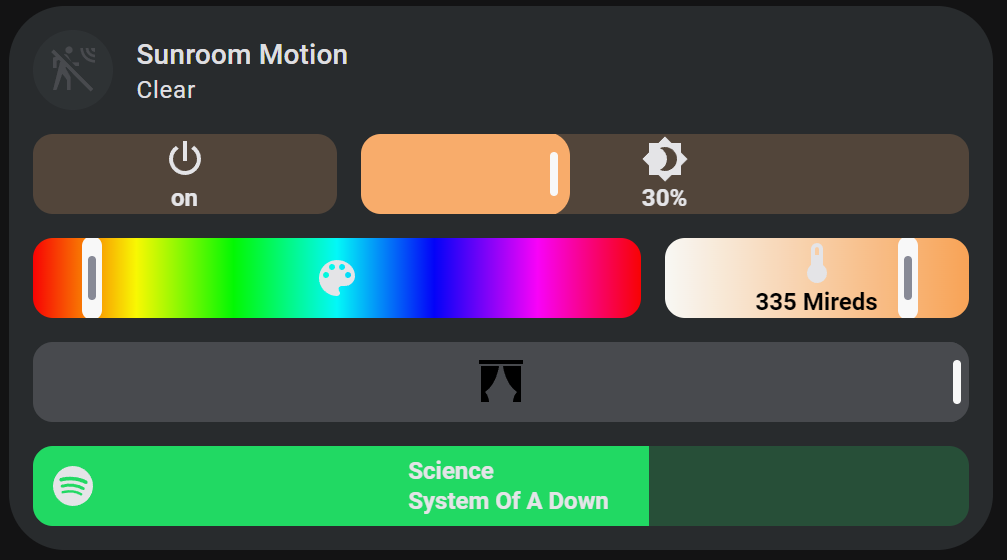
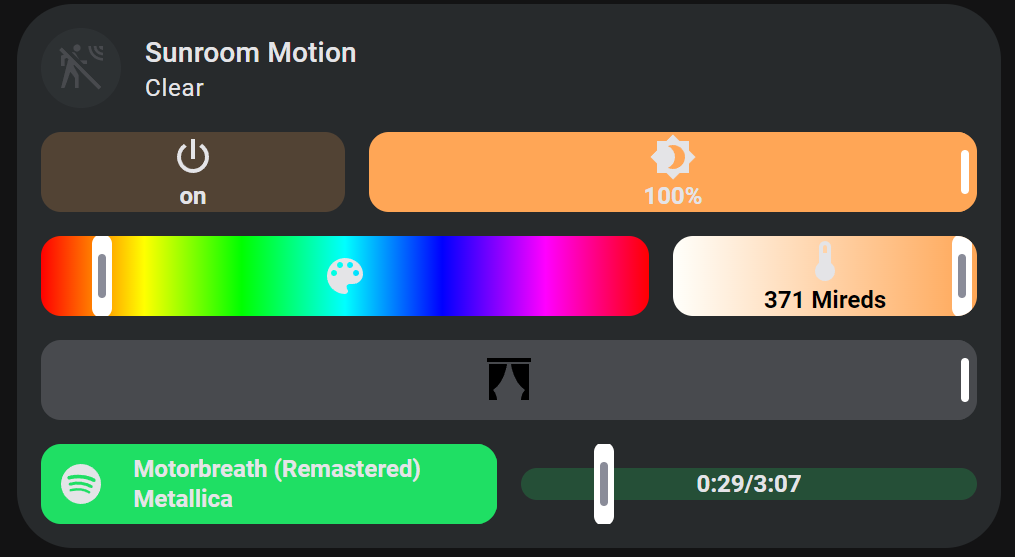
update README examples, make it so that spinbox checks hold_action.action for repeat rather than increment or decrement actions

diff --git a/dist/service-call-tile-feature.min.js b/dist/service-call-tile-feature.min.js
@@ -356,7 +356,7 @@
 					opacity: 1;
 					transition: opacity 540ms ease-in-out 0s;
 				}
-			`]}};t.ServiceCallSlider=c,i([(0,o.state)()],c.prototype,"showTooltip",void 0),i([(0,o.state)()],c.prototype,"sliderOn",void 0),i([(0,o.state)()],c.prototype,"currentValue",void 0),t.ServiceCallSlider=c=i([(0,o.customElement)("service-call-slider")],c)},682:function(e,t,n){"use strict";var i=this&&this.__decorate||function(e,t,n,i){var r,o=arguments.length,s=o<3?t:null===i?i=Object.getOwnPropertyDescriptor(t,n):i;if("object"==typeof Reflect&&"function"==typeof Reflect.decorate)s=Reflect.decorate(e,t,n,i);else for(var a=e.length-1;a>=0;a--)(r=e[a])&&(s=(o<3?r(s):o>3?r(t,n,s):r(t,n))||s);return o>3&&s&&Object.defineProperty(t,n,s),s};Object.defineProperty(t,"__esModule",{value:!0}),t.ServiceCallSpinbox=void 0;const r=n(814),o=n(595),s=n(921),a=n(839),l=n(393);n(827);let c=class extends l.BaseServiceCallFeature{constructor(){super(...arguments),this.range=[-32768,32767],this.step=1,this.debounceTime=1e3}onStart(e){var t,n,i,r;this.swiping=!1,"targetTouches"in e?(this.initialX=e.targetTouches[0].clientX,this.initialY=e.targetTouches[0].clientY):(this.initialX=e.clientX,this.initialY=e.clientY);const o=e.currentTarget.id;if("repeat"==(0,a.renderTemplate)(this.hass,null!==(i=null===(n=null===(t=this.entry[o])||void 0===t?void 0:t.hold_action)||void 0===n?void 0:n.action)&&void 0!==i?i:"none")&&!this.holdTimer){const e="hold_time"in(null!==(r=this.entry.hold_action)&&void 0!==r?r:{})?(0,a.renderTemplate)(this.hass,this.entry[o].hold_action.hold_time):500;this.holdTimer=setTimeout((()=>{var e;if(clearTimeout(this.debounceTimer),clearTimeout(this.getValueFromHassTimer),this.getValueFromHass=!1,!this.swiping){const t="repeat_delay"in(null!==(e=this.entry.hold_action)&&void 0!==e?e:{})?(0,a.renderTemplate)(this.hass,this.entry.hold_action.repeat_delay):100;this.holdInterval||(this.holdInterval=setInterval((()=>{this.operateValue(o),this.fireHapticEvent("selection")}),t))}}),e)}}onEnd(e){if(clearTimeout(this.debounceTimer),!this.swiping){clearTimeout(this.getValueFromHassTimer),this.getValueFromHass=!1;const t=e.currentTarget.id;this.operateValue(t),this.debounceTimer=setTimeout((()=>{this.sendAction("tap_action"),this.resetGetValueFromHass()}),this.debounceTime)}this.endAction()}onMove(e){var t,n;let i,r;"targetTouches"in e?(i=e.targetTouches[0].clientX,r=e.targetTouches[0].clientY):(i=e.clientX,r=e.clientY);const o=(null!==(t=this.initialX)&&void 0!==t?t:i)-i,s=(null!==(n=this.initialY)&&void 0!==n?n:r)-r;Math.abs(Math.abs(o)-Math.abs(s))>8&&(this.endAction(),clearTimeout(this.debounceTimer),this.swiping=!0,this.getValueFromHass=!0,this.setValue())}operateValue(e){const t=parseFloat(this.value);let n=this.value;switch(e){case"increment":n=t+this.step;break;case"decrement":n=t-this.step}this.value=Math.min(Math.max(n,this.range[0]),this.range[1])}endAction(){clearTimeout(this.holdTimer),clearTimeout(this.holdInterval),this.holdTimer=void 0,this.holdInterval=void 0,super.endAction()}buildButton(e){var t,n,i,o,l,c,u,h,p,d,f,m,v,y;const _=null!==(t=this.entry[e])&&void 0!==t?t:{};if("icon"in _||(_.icon="increment"==e?"mdi:plus":"mdi:minus"),"none"==(0,a.renderTemplate)(this.hass,null!==(i=null===(n=null==_?void 0:_.tap_action)||void 0===n?void 0:n.action)&&void 0!==i?i:"none")&&"none"==(0,a.renderTemplate)(this.hass,null!==(l=null===(o=null==_?void 0:_.double_tap_action)||void 0===o?void 0:o.action)&&void 0!==l?l:"none")&&["none","repeat"].includes((0,a.renderTemplate)(this.hass,null!==(u=null===(c=null==_?void 0:_.hold_action)||void 0===c?void 0:c.action)&&void 0!==u?u:"none"))&&"none"==(0,a.renderTemplate)(this.hass,null!==(p=null===(h=null==_?void 0:_.momentary_start_action)||void 0===h?void 0:h.action)&&void 0!==p?p:"none")&&"none"==(0,a.renderTemplate)(this.hass,null!==(f=null===(d=null==_?void 0:_.momentary_end_action)||void 0===d?void 0:d.action)&&void 0!==f?f:"none"))return r.html`
+			`]}};t.ServiceCallSlider=c,i([(0,o.state)()],c.prototype,"showTooltip",void 0),i([(0,o.state)()],c.prototype,"sliderOn",void 0),i([(0,o.state)()],c.prototype,"currentValue",void 0),t.ServiceCallSlider=c=i([(0,o.customElement)("service-call-slider")],c)},682:function(e,t,n){"use strict";var i=this&&this.__decorate||function(e,t,n,i){var r,o=arguments.length,s=o<3?t:null===i?i=Object.getOwnPropertyDescriptor(t,n):i;if("object"==typeof Reflect&&"function"==typeof Reflect.decorate)s=Reflect.decorate(e,t,n,i);else for(var a=e.length-1;a>=0;a--)(r=e[a])&&(s=(o<3?r(s):o>3?r(t,n,s):r(t,n))||s);return o>3&&s&&Object.defineProperty(t,n,s),s};Object.defineProperty(t,"__esModule",{value:!0}),t.ServiceCallSpinbox=void 0;const r=n(814),o=n(595),s=n(921),a=n(839),l=n(393);n(827);let c=class extends l.BaseServiceCallFeature{constructor(){super(...arguments),this.range=[-32768,32767],this.step=1,this.debounceTime=1e3}onStart(e){var t,n,i;this.swiping=!1,"targetTouches"in e?(this.initialX=e.targetTouches[0].clientX,this.initialY=e.targetTouches[0].clientY):(this.initialX=e.clientX,this.initialY=e.clientY);const r=e.currentTarget.id;if("repeat"==(0,a.renderTemplate)(this.hass,null!==(n=null===(t=this.entry.hold_action)||void 0===t?void 0:t.action)&&void 0!==n?n:"none")&&!this.holdTimer){const e="hold_time"in(null!==(i=this.entry.hold_action)&&void 0!==i?i:{})?(0,a.renderTemplate)(this.hass,this.entry[r].hold_action.hold_time):500;this.holdTimer=setTimeout((()=>{var e;if(clearTimeout(this.debounceTimer),clearTimeout(this.getValueFromHassTimer),this.getValueFromHass=!1,!this.swiping){const t="repeat_delay"in(null!==(e=this.entry.hold_action)&&void 0!==e?e:{})?(0,a.renderTemplate)(this.hass,this.entry.hold_action.repeat_delay):100;this.holdInterval||(this.holdInterval=setInterval((()=>{this.operateValue(r),this.fireHapticEvent("selection")}),t))}}),e)}}onEnd(e){if(clearTimeout(this.debounceTimer),!this.swiping){clearTimeout(this.getValueFromHassTimer),this.getValueFromHass=!1;const t=e.currentTarget.id;this.operateValue(t),this.debounceTimer=setTimeout((()=>{this.sendAction("tap_action"),this.resetGetValueFromHass()}),this.debounceTime)}this.endAction()}onMove(e){var t,n;let i,r;"targetTouches"in e?(i=e.targetTouches[0].clientX,r=e.targetTouches[0].clientY):(i=e.clientX,r=e.clientY);const o=(null!==(t=this.initialX)&&void 0!==t?t:i)-i,s=(null!==(n=this.initialY)&&void 0!==n?n:r)-r;Math.abs(Math.abs(o)-Math.abs(s))>8&&(this.endAction(),clearTimeout(this.debounceTimer),this.swiping=!0,this.getValueFromHass=!0,this.setValue())}operateValue(e){const t=parseFloat(this.value);let n=this.value;switch(e){case"increment":n=t+this.step;break;case"decrement":n=t-this.step}this.value=Math.min(Math.max(n,this.range[0]),this.range[1])}endAction(){clearTimeout(this.holdTimer),clearTimeout(this.holdInterval),this.holdTimer=void 0,this.holdInterval=void 0,super.endAction()}buildButton(e){var t,n,i,o,l,c,u,h,p,d,f,m,v,y;const _=null!==(t=this.entry[e])&&void 0!==t?t:{};if("icon"in _||(_.icon="increment"==e?"mdi:plus":"mdi:minus"),"none"==(0,a.renderTemplate)(this.hass,null!==(i=null===(n=null==_?void 0:_.tap_action)||void 0===n?void 0:n.action)&&void 0!==i?i:"none")&&"none"==(0,a.renderTemplate)(this.hass,null!==(l=null===(o=null==_?void 0:_.double_tap_action)||void 0===o?void 0:o.action)&&void 0!==l?l:"none")&&["none","repeat"].includes((0,a.renderTemplate)(this.hass,null!==(u=null===(c=null==_?void 0:_.hold_action)||void 0===c?void 0:c.action)&&void 0!==u?u:"none"))&&"none"==(0,a.renderTemplate)(this.hass,null!==(p=null===(h=null==_?void 0:_.momentary_start_action)||void 0===h?void 0:h.action)&&void 0!==p?p:"none")&&"none"==(0,a.renderTemplate)(this.hass,null!==(f=null===(d=null==_?void 0:_.momentary_end_action)||void 0===d?void 0:d.action)&&void 0!==f?f:"none"))return r.html`
 				<button
 					class="button"
 					id="${e}"

diff --git a/src/classes/service-call-spinbox.ts b/src/classes/service-call-spinbox.ts
@@ -32,7 +32,7 @@ export class ServiceCallSpinbox extends BaseServiceCallFeature {
 		if (
 			renderTemplate(
 				this.hass,
-				this.entry[operator]?.hold_action?.action ?? 'none',
+				this.entry.hold_action?.action ?? 'none',
 			) == 'repeat' &&
 			!this.holdTimer
 		) {

diff --git a/README.md b/README.md
@@ -724,7 +724,7 @@ card_mod:
 
 ## Example 2
 
-A light tile with a button for each bulb, a color selector, and brightness and temperature sliders, with emphasis on certain options.
+A light tile with a button for each bulb, a color selector, brightness and temperature sliders, and a brightness spinbox with emphasis on certain options.
 
 ```yaml
 features:
@@ -899,6 +899,49 @@ features:
           '--label-color': var(--disabled-color)
           '--background': linear-gradient(-90deg, rgb(255, 167, 87), rgb(255, 255, 251))
           '--background-opacity': 1
+  - type: custom:service-call
+    entries:
+      - type: spinbox
+        haptics: true
+        icon: mdi:brightness-4
+        label: VALUE
+        step: 5
+        debounceTime: 1000
+        range:
+          - 0
+          - 100
+        value_attribute: brightness
+        tap_action:
+          action: call-service
+          service: light.turn_on
+          data:
+            brightness_pct: VALUE
+        decrement:
+          icon: mdi:brightness-3
+          label: down
+          hold_action:
+            action: repeat
+          style:
+            flex-flow: row
+          icon_style:
+            padding-right: 4px
+        increment:
+          icon: mdi:brightness-2
+          label: up
+          hold_action:
+            action: repeat
+          style:
+            flex-flow: row-reverse
+          icon_style:
+            padding-left: 4px
+        style:
+          '--light-color': rgb({{ state_attr("light.chandelier", "rgb_color") }})
+          '--on-color': >-
+            {{ "var(--light-color)" if is_state("light.chandelier", "on") else
+            "initial" }}
+          '--background': var(--on-color)
+          '--icon-color': var(--on-color)
+          '--label-color': var(--on-color)
 type: tile
 entity: light.chandelier
 ```
@@ -1042,6 +1085,33 @@ features:
           flex: auto
         label_style:
           left: '-16px'
+      - type: slider
+        tap_action:
+          action: call-service
+          service: media_player.media_seek
+          data:
+            seek_position: VALUE
+            entity_id: media_player.spotify
+        value_attribute: media_position
+        range:
+          - 0
+          - '{{ state_attr("media_player.spotify", "media_duration") }}'
+        thumb: line
+        label: >-
+          {{ (VALUE / 60) | int }}:{{ 0 if (VALUE - 60*((VALUE / 60) | int)) < 10
+          else "" }}{{ (VALUE - 60*((VALUE / 60) | int)) | int }}/{{
+          (state_attr("media_player.spotify", "media_duration") / 60) |
+          int }}:{{ 0 if (state_attr("media_player.spotify",
+          "media_duration") - 60*((state_attr("media_player.spotify",
+          "media_duration") / 60) | int)) < 10 else "" }}{{
+          (state_attr("media_player.spotify", "media_duration") -
+          60*((state_attr("media_player.spotify", "media_duration") /
+          60) | int)) | int }}
+        style:
+          '--color': rgb(31, 223, 100)
+        background_style:
+          height: 39%
+          border-radius: 32px
 
 type: tile
 entity: binary_sensor.sun_room
@@ -1170,10 +1240,44 @@ color: accent
 
 ## Example 6
 
-Spinbox TODO
+A better looking temperature spinbox with hold on repeat, tile color, and an icon and label. Also an XKCD button that opens a different commic based on how long you hold it using momentary button mode.
 
 ```yaml
-TODO
+features:
+  - type: custom:service-call
+    entries:
+      - type: spinbox
+        icon: mdi:thermometer
+        label: VALUE
+        step: 1
+        debounceTime: 1000
+        range:
+          - '{{ state_attr("climate.downstairs_thermostat", "min_temp") }}'
+          - '{{ state_attr("climate.downstairs_thermostat", "max_temp") }}'
+        value_attribute: temperature
+        unit_of_measurement: ' °F'
+        tap_action:
+          service: climate.set_temperature
+          data:
+            entity_id: climate.downstairs_thermostat
+            temperature: VALUE
+        hold_action:
+          action: repeat
+        style:
+          '--background': var(--tile-color)
+          '--icon-color': var(--tile-color)
+          flex-flow: row
+  - type: custom:service-call
+    entries:
+      - type: button
+        label: XKCD
+        value_from_hass_delay: 5000
+        momentary_end_action:
+          action: url
+          url_path: https://xkcd.com/{{ 1000* HOLD_SECS }}
+type: tile
+entity: climate.downstairs_thermostat
+
 ```
 
 [last-commit-shield]: https://img.shields.io/github/last-commit/Nerwyn/service-call-tile-feature?style=for-the-badge
